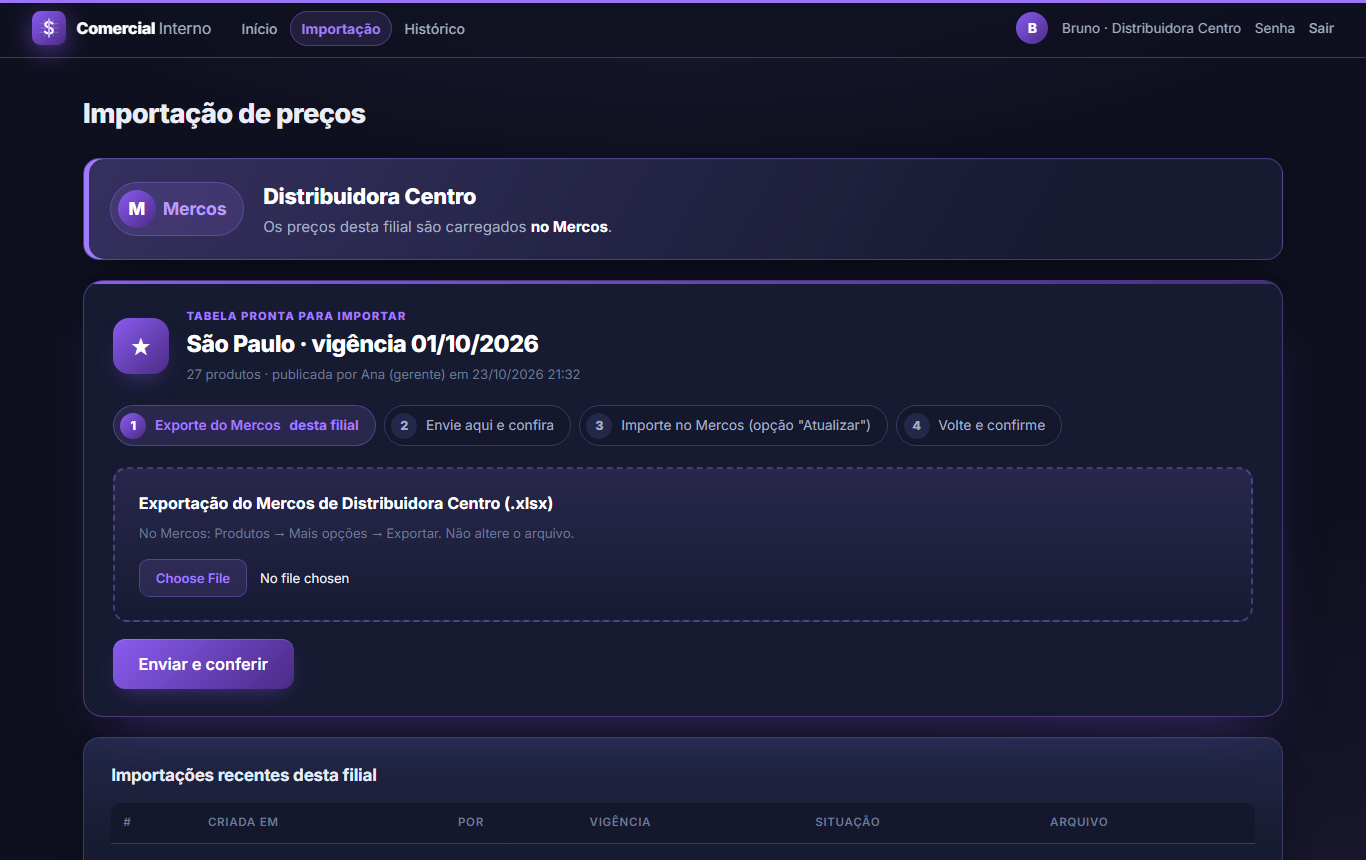
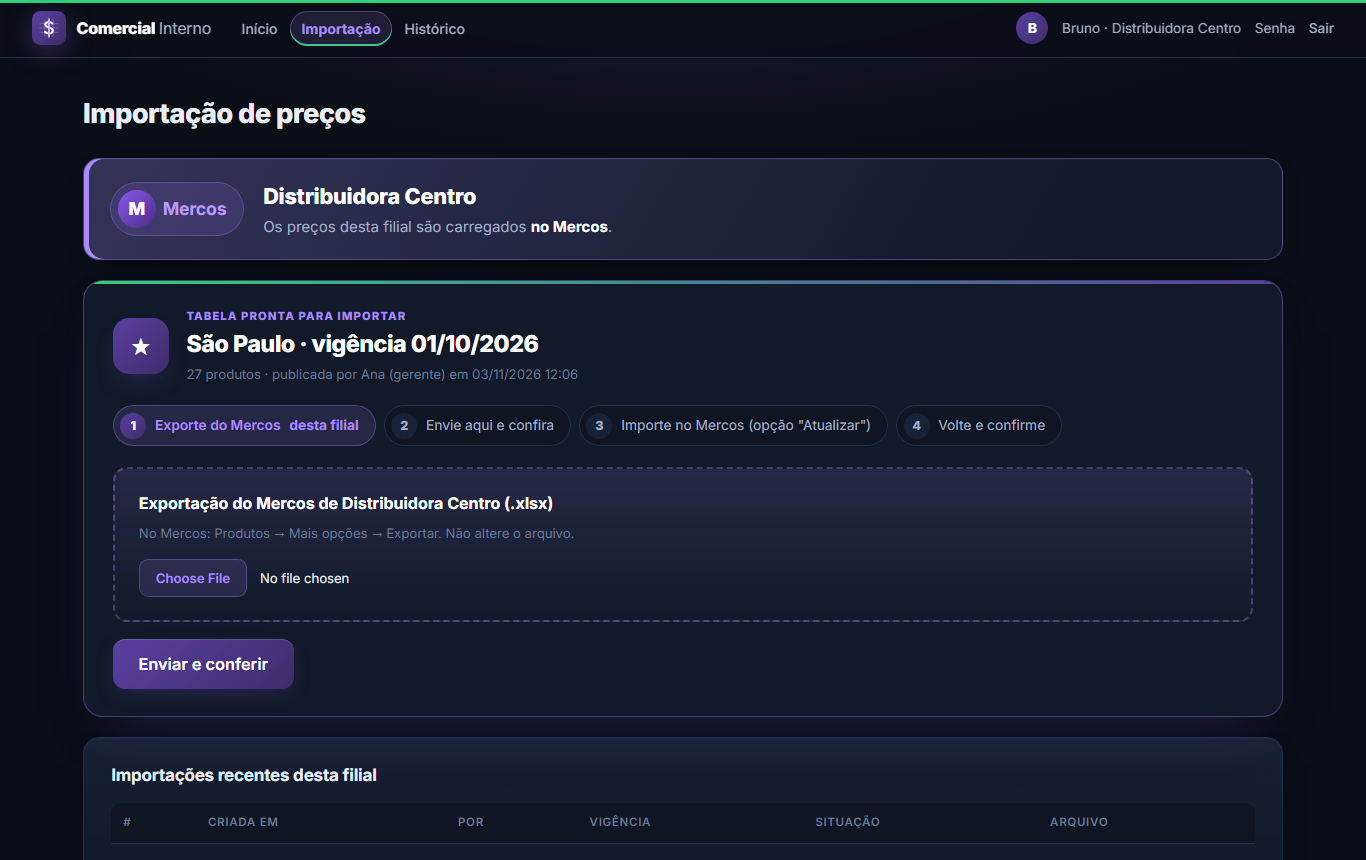
Tema Mercos com a paleta do app do Mercos

diff --git a/app/static/estilo.css b/app/static/estilo.css
@@ -6,6 +6,7 @@
 @property --p-forte { syntax: '<color>'; inherits: true; initial-value: #2f6fdb; }
 @property --p-escura { syntax: '<color>'; inherits: true; initial-value: #1e3a8a; }
 @property --tinta { syntax: '<percentage>'; inherits: true; initial-value: 0%; }
+@property --acento { syntax: '<color>'; inherits: true; initial-value: #6ea8ff; }
 :root {
   color-scheme: dark;
   --texto: #e8edf6; --suave: #a3afc4; --fraco: #6c7a93;
@@ -17,7 +18,7 @@
 }
 /* destaque: neutro (azul), Mercos (roxo) ou ION (verde). Os tons derivados saem das três cores. */
 /* --tinta: quanto a paleta do destino "pinta" fundo, cartões e bordas (0% no neutro) */
-body { --p: #6ea8ff; --p-forte: #2f6fdb; --p-escura: #1e3a8a; --tinta: 0%;
+body { --p: #6ea8ff; --p-forte: #2f6fdb; --p-escura: #1e3a8a; --tinta: 0%; --acento: #6ea8ff;
   --fundo: color-mix(in srgb, var(--p-escura) calc(var(--tinta) * .45), #0a0e17);
   --fundo-2: color-mix(in srgb, var(--p-escura) calc(var(--tinta) * .6), #0f1522);
   --cartao: color-mix(in srgb, var(--p-escura) calc(var(--tinta) * .55), #121a2a);
@@ -27,9 +28,10 @@ body { --p: #6ea8ff; --p-forte: #2f6fdb; --p-escura: #1e3a8a; --tinta: 0%;
   --linha: color-mix(in srgb, var(--p) calc(var(--tinta) * .6), #1b2539);
   --p-fundo: color-mix(in srgb, var(--p) 13%, transparent); --p-borda: color-mix(in srgb, var(--p) 34%, transparent);
   --p-brilho: color-mix(in srgb, var(--p-forte) 50%, transparent); --p-grad: linear-gradient(135deg, var(--p-forte), var(--p-escura));
-  transition: --p .7s ease, --p-forte .7s ease, --p-escura .7s ease, --tinta .7s ease; }
-body.tema-mercos { --p: #a07bff; --p-forte: #8a5cf0; --p-escura: #4b2a85; --tinta: 16%; }
-body.tema-ion { --p: #3ee0b4; --p-forte: #1fc79b; --p-escura: #0b6b55; --tinta: 16%; }
+  transition: --p .7s ease, --p-forte .7s ease, --p-escura .7s ease, --tinta .7s ease, --acento .7s ease; }
+/* Mercos: o roxo escuro dos botões do app (ENTRAR) e o verde do logo como acento */
+body.tema-mercos { --p: #a98bff; --p-forte: #5a3fa0; --p-escura: #3e2d6b; --tinta: 0%; --acento: #2fd27a; }
+body.tema-ion { --p: #3ee0b4; --p-forte: #1fc79b; --p-escura: #0b6b55; --tinta: 0%; --acento: #3ee0b4; }
 
 * { box-sizing: border-box; }
 html { -webkit-font-smoothing: antialiased; }
@@ -48,7 +50,8 @@ code { background: var(--cartao-2); color: var(--p); padding: .1rem .4rem; borde
 /* ---------- topo */
 .topo { display: flex; align-items: center; gap: 1.2rem; flex-wrap: wrap; padding: .7rem 2rem; position: sticky; top: 0; z-index: 10;
   background: color-mix(in srgb, var(--fundo) 80%, transparent); backdrop-filter: blur(12px); border-bottom: 1px solid var(--borda);
-  box-shadow: inset 0 3px 0 color-mix(in srgb, var(--p) calc(var(--tinta) * 6), transparent); }
+  box-shadow: inset 0 3px 0 var(--acento-faixa, transparent); }
+body.tema-mercos .topo, body.tema-ion .topo { --acento-faixa: var(--acento); }
 .topo a { text-decoration: none; }
 .marca { font-weight: 800; font-size: 1rem; display: flex; align-items: center; gap: .65rem; white-space: nowrap; color: #fff; letter-spacing: -.01em; }
 .marca small { font-weight: 500; color: var(--suave); font-size: .8rem; }
@@ -59,7 +62,7 @@ code { background: var(--cartao-2); color: var(--p); padding: .1rem .4rem; borde
 .topo nav { display: flex; gap: .1rem; flex-wrap: wrap; flex: 1; }
 .topo nav a { padding: .4rem .7rem; border-radius: 999px; color: var(--suave); font-size: .88rem; font-weight: 500; transition: background .15s, color .15s; }
 .topo nav a:hover { background: rgba(255, 255, 255, .05); color: #fff; }
-.topo nav a.ativo { background: var(--p-fundo); color: var(--p); font-weight: 700; box-shadow: inset 0 0 0 1px var(--p-borda); }
+.topo nav a.ativo { background: var(--p-fundo); color: var(--p); font-weight: 700; box-shadow: inset 0 0 0 1px var(--p-borda), inset 0 -2px 0 var(--acento); }
 .quem { display: flex; gap: .85rem; align-items: center; font-size: .85rem; color: var(--suave); }
 .quem a, .quem .link { color: var(--suave); font-size: .85rem; text-decoration: none; }
 .quem a:hover, .quem .link:hover { color: #fff; }
@@ -201,7 +204,7 @@ ul.nota { padding-left: 1.1rem; display: flex; flex-direction: column; gap: .45r
 
 .pronta { background: var(--cartao); border: 1px solid var(--p-borda); border-radius: 20px; padding: 1.7rem 1.8rem; margin-bottom: 1.25rem;
   position: relative; overflow: hidden; box-shadow: 0 24px 50px -28px var(--p-brilho), var(--sombra); }
-.pronta::before { content: ""; position: absolute; inset: 0 0 auto 0; height: 3px; background: var(--p-grad); }
+.pronta::before { content: ""; position: absolute; inset: 0 0 auto 0; height: 3px; background: linear-gradient(90deg, var(--acento), var(--p-forte)); }
 .pronta.feita { border-color: var(--borda); box-shadow: var(--sombra); }
 .pronta.feita::before { background: linear-gradient(90deg, #34d399, #0d7a55); }
 .pronta-topo { display: flex; gap: 1.1rem; align-items: center; margin-bottom: 1.3rem; }
@@ -224,7 +227,7 @@ ul.nota { padding-left: 1.1rem; display: flex; flex-direction: column; gap: .45r
 .envio { display: flex; flex-direction: column; gap: 1.1rem; align-items: flex-start; }
 .zona-arquivo { width: 100%; border: 2px dashed var(--p-borda); border-radius: 14px; padding: 1.4rem 1.5rem; margin: 0; color: var(--texto); gap: .45rem;
   background: linear-gradient(180deg, var(--p-fundo), transparent); transition: border-color .15s, background .15s; }
-.zona-arquivo:hover { border-color: var(--p); }
+.zona-arquivo:hover { border-color: var(--acento); }
 .zona-titulo { font-weight: 700; font-size: 1rem; color: #fff; }
 .zona-arquivo input[type=file] { border: 0; padding: .5rem 0 0; background: none; height: auto; box-shadow: none; }
 
